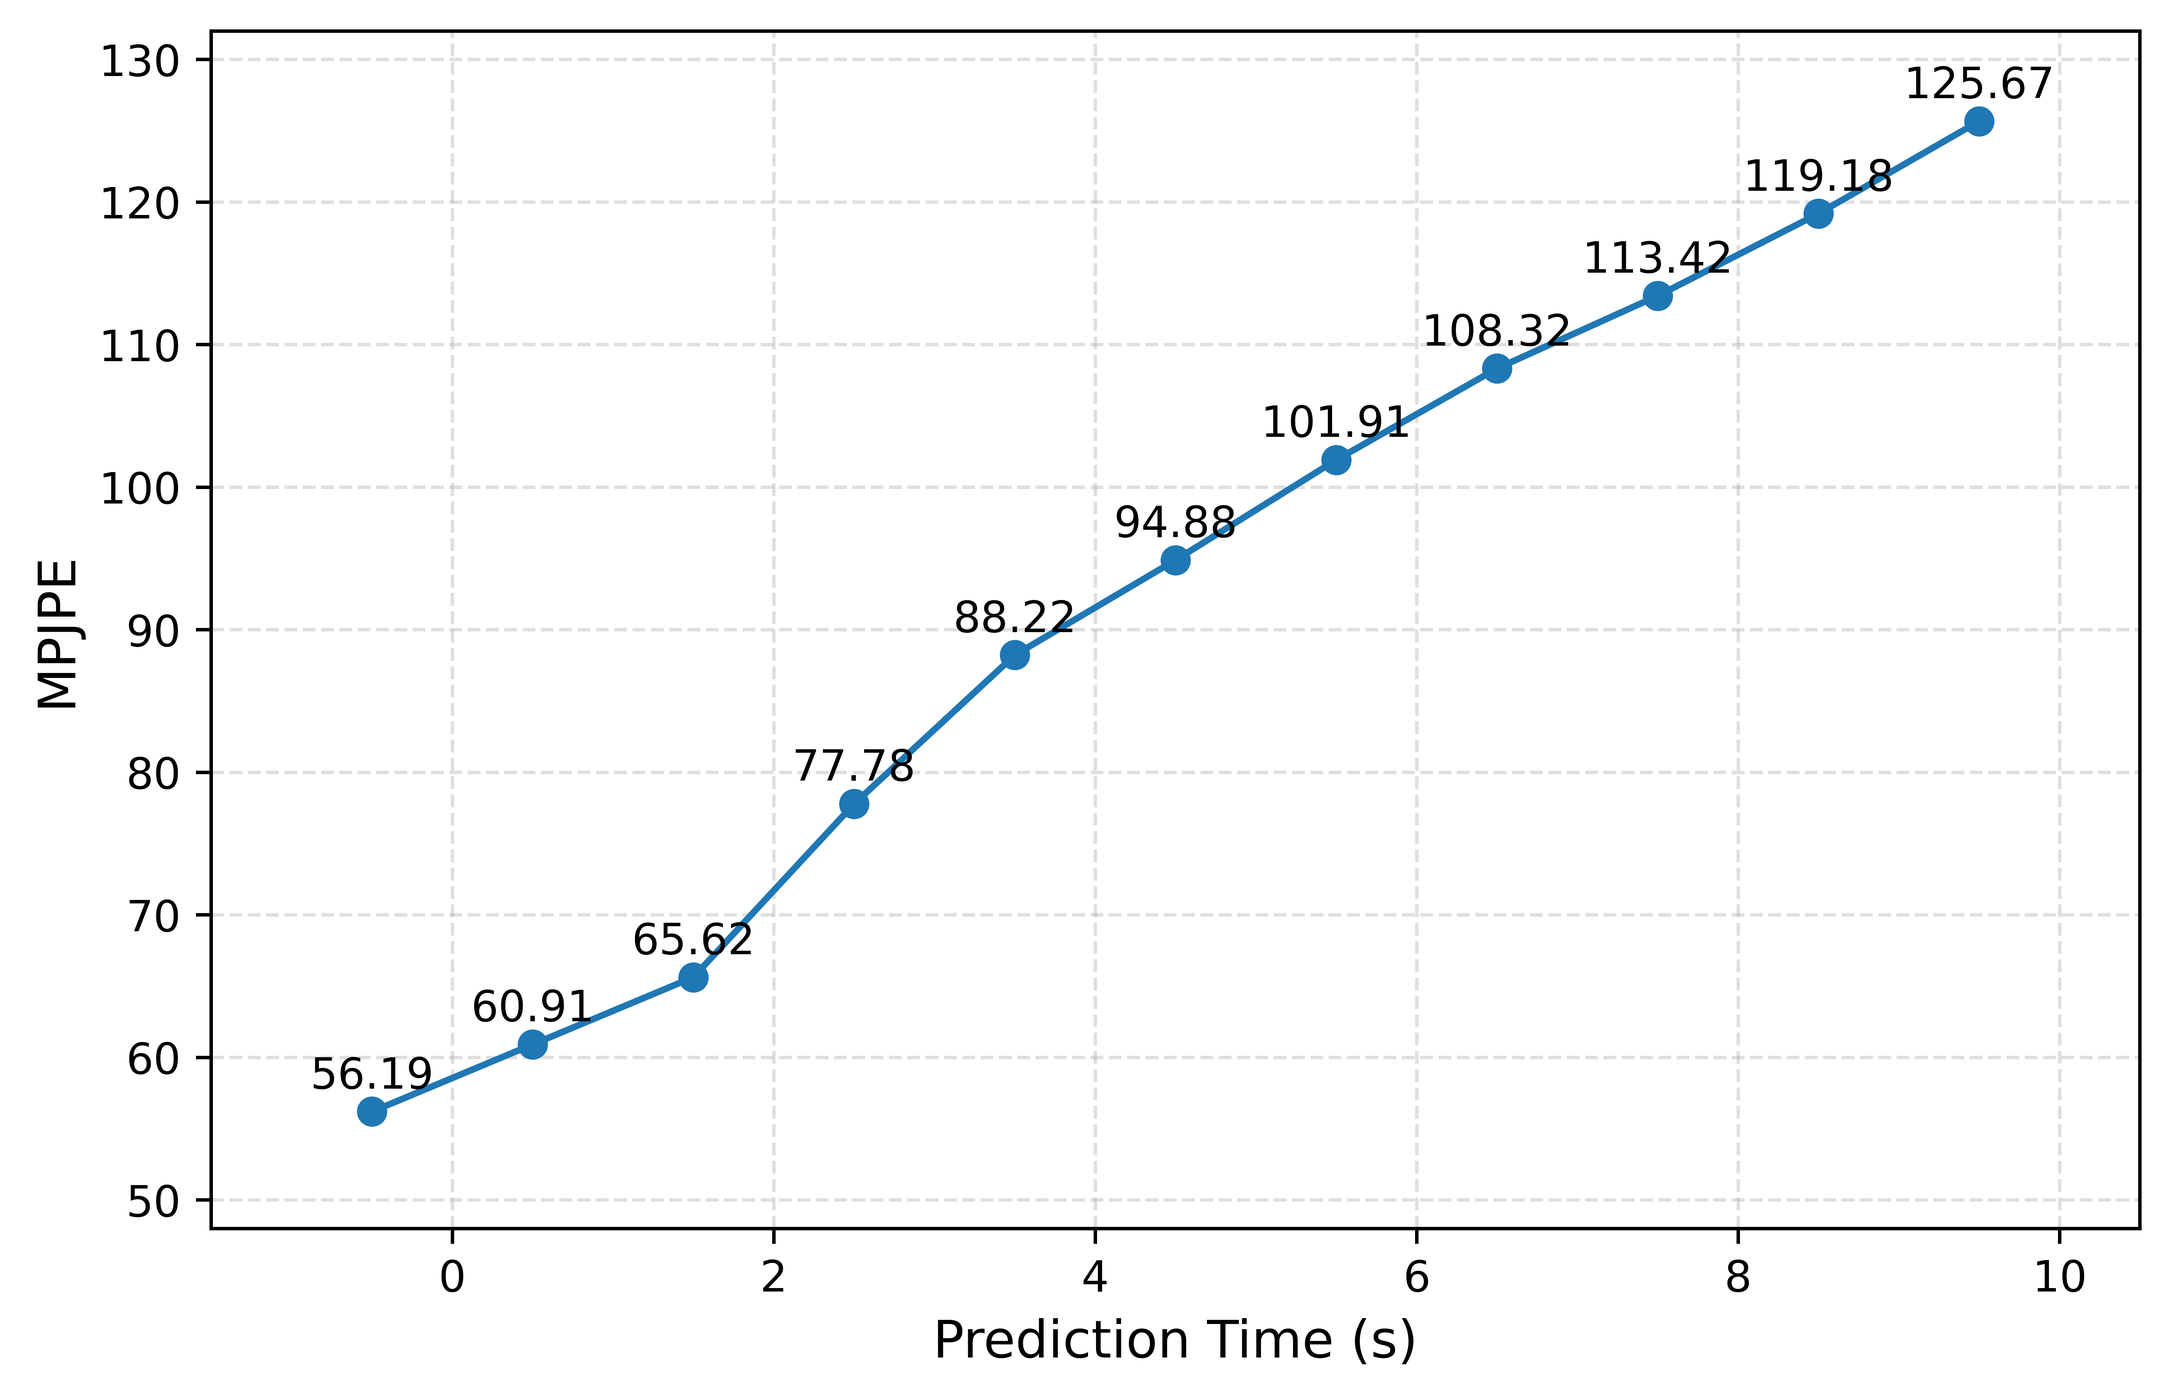
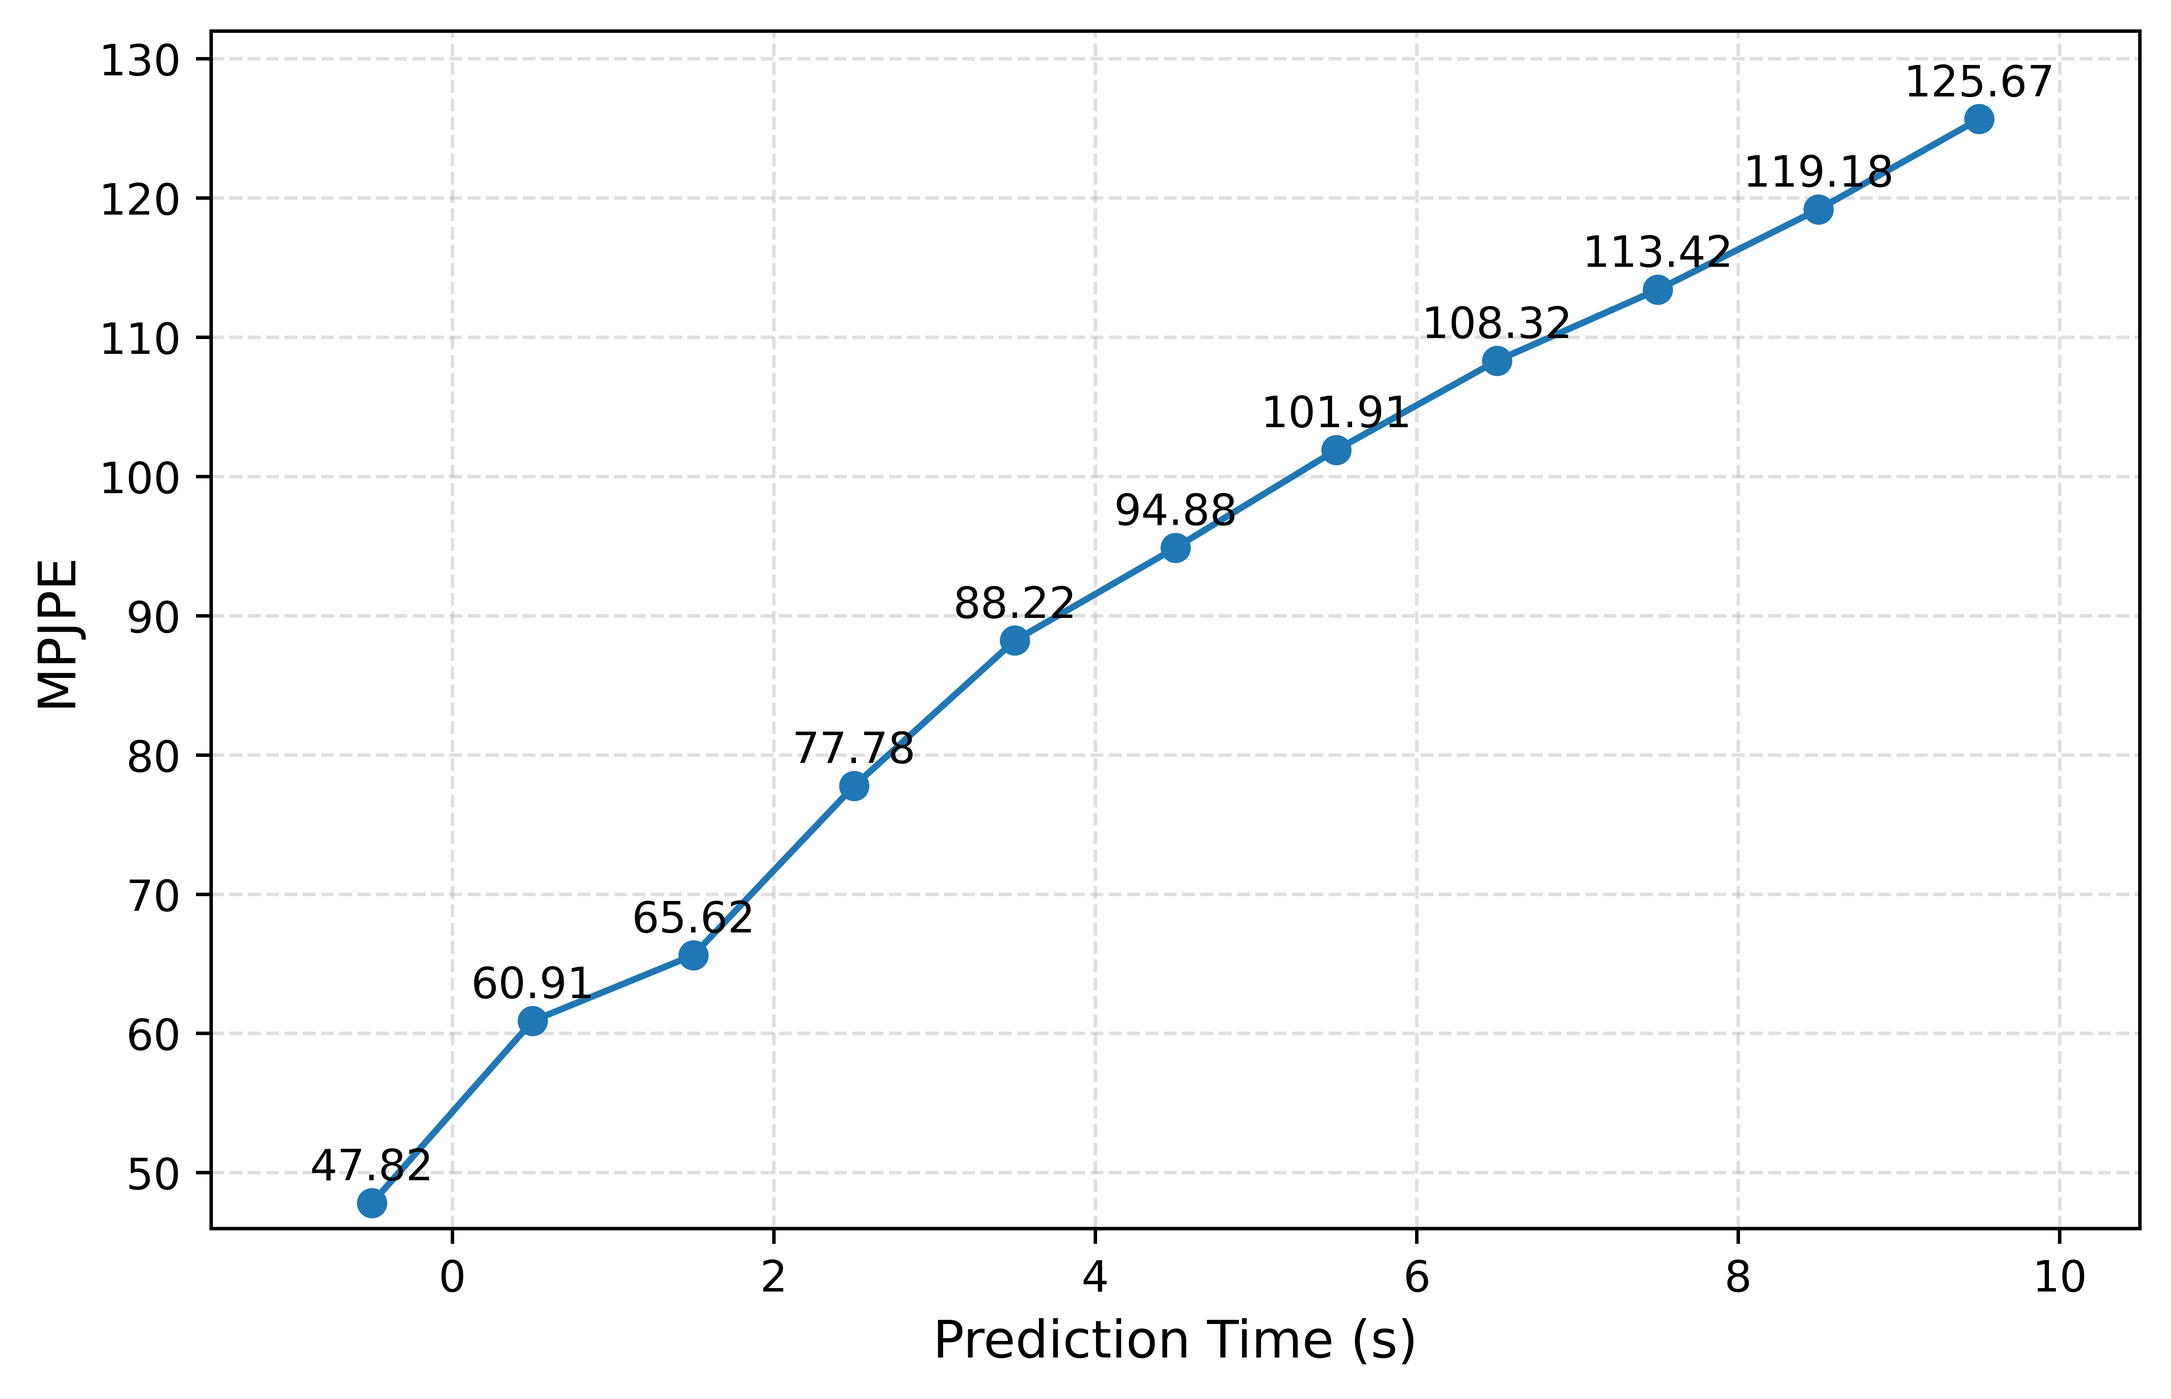
修复一些问题

diff --git a/Main_Spine/c3.tex b/Main_Spine/c3.tex
@@ -6,7 +6,7 @@
 
 \xsection{问题描述}{Problem Description}
 
-人体活动识别（Human Activity Recognition, HAR）是智能感知中的基础任务，在智慧医疗、养老监护、安防监控和智能家居等场景中具有重要应用价值。近年来，随着可穿戴传感器、无线感知传感器以及深度学习方法的发展，HAR在识别精度和应用范围上均取得了明显进展。然而，在真实室内环境中构建兼具准确性、鲁棒性和可部署性的人体活动识别系统，仍然面临若干挑战。
+人体活动识别（Human Activity Recognition, HAR）是智能感知中的基础任务，在智慧医疗、养老监护、安防监控和智能家居等场景中具有重要应用价值。近年来，随着可穿戴传感器、无线感知技术以及深度学习方法的发展，HAR在识别精度和应用范围上均取得了明显进展。然而，在真实室内环境中构建兼具准确性、鲁棒性和可部署性的人体活动识别系统，仍然面临若干挑战。
 
 首先，视觉感知方法在光照充足且遮挡较少的条件下通常能够取得较好的识别效果，但其性能高度依赖成像质量与视角条件。在夜间、弱光或存在遮挡的环境中，人体外观特征和关键点信息容易退化，从而影响识别稳定性。同时，持续视频采集还会带来较为突出的隐私问题，因此在卧室、书房等敏感场景中受到一定限制。相比之下，非视觉感知方式在隐私保护和环境适应性方面更具优势，因而逐渐成为人体活动识别研究的重要方向。
 
@@ -124,7 +124,7 @@ F_I, F_W \in \mathbb{R}^{B \times T \times D},
 
 \subsubsection{跨模态特征对齐}{}
 
-如第2.3节所述，对比学习能够在共享语义空间中实现跨模态特征对齐。基于该思想，本文在WIHAR模型中引入CLIP式对比学习约束，以减小IMU与WiFi CSI特征之间的分布偏差。不同于第二章从输入层构建跨模态对应关系的做法，本文在特征层进行对齐：首先利用Mamba编码器分别提取IMU与WiFi CSI的时序特征表示，然后在样本级别构建跨模态对比关系。设编码后的时序特征为
+如第2.3节所述，对比学习能够在共享语义空间中实现跨模态特征对齐。基于该思想，本文在WIHAR模型中引入CLIP式对比学习约束，以减小IMU与WiFi CSI特征之间的分布偏差。与第二章对跨模态对齐原理的通用描述不同，本文在特征层进行对齐：首先利用Mamba编码器分别提取IMU与WiFi CSI的时序特征表示，然后在样本级别构建跨模态对比关系。设编码后的时序特征为
 \begin{equation}
 F_I, F_W \in \mathbb{R}^{B \times T \times D},
 \end{equation}
@@ -177,7 +177,7 @@ Q = F_I W_Q, \qquad
 K = F_W W_K, \qquad
 V = F_W W_V,
 \end{equation}
-其中，$W_Q \in \mathbb{R}^{D \times d_k}$、$W_K \in \mathbb{R}^{D \times d_k}$和$W_V \in \mathbb{R}^{D \times d_v}$为可学习的线性映射矩阵。
+其中，$W_Q \in \mathbb{R}^{D \times d_k}$、$W_K \in \mathbb{R}^{D \times d_k}$、$W_V \in \mathbb{R}^{D \times D}$为可学习的线性映射矩阵。
 
 随后通过缩放点积注意力计算跨模态特征交互：
 \begin{equation}
@@ -558,17 +558,17 @@ L_a = - \sum_{c=1}^{C_a} w_c \, y_a^{(c)} \log \hat{y}_a^{(c)},
 
 在多模态人体活动识别任务中，IMU数据与WiFi CSI数据在量纲范围和统计分布上存在差异，因此数据标准化可能影响模型训练过程。为分析标准化策略对模型识别性能的作用，本文选取两种设置进行对比：一是不对输入数据进行标准化处理；二是同时对IMU数据和WiFi CSI数据进行按通道Z-score标准化。实验结果如表~\ref{tab:norm_ablation}所示。
 
-设输入样本表示为 $X \in \mathbb{R}^{B \times C \times T}$，其中 $B$ 表示批大小，$C$ 表示通道数，$T$ 表示时间长度。按通道Z-score标准化的计算方式为
+设输入样本表示为$X \in \mathbb{R}^{B \times T \times C}$，其中$B$表示批大小，$T$表示时间长度，$C$表示通道数。按通道Z-score标准化的计算方式为
 \begin{equation}
-\mu_c=\frac{1}{BT}\sum_{b=1}^{B}\sum_{t=1}^{T}X_{b,c,t},
+\mu_c=\frac{1}{BT}\sum_{b=1}^{B}\sum_{t=1}^{T}X_{b,t,c},
 \end{equation}
 \begin{equation}
-\sigma_c=\sqrt{\frac{1}{BT}\sum_{b=1}^{B}\sum_{t=1}^{T}(X_{b,c,t}-\mu_c)^2},
+\sigma_c=\sqrt{\frac{1}{BT}\sum_{b=1}^{B}\sum_{t=1}^{T}(X_{b,t,c}-\mu_c)^2},
 \end{equation}
 \begin{equation}
-\hat{X}_{b,c,t}=\frac{X_{b,c,t}-\mu_c}{\sigma_c},
+\hat{X}_{b,t,c}=\frac{X_{b,t,c}-\mu_c}{\sigma_c},
 \end{equation}
-其中 $\mu_c$ 和 $\sigma_c$ 分别表示第 $c$ 个通道的均值与标准差，$\hat{X}_{b,c,t}$ 表示标准化后的数据。
+其中$\mu_c$和$\sigma_c$分别表示第$c$个通道的均值与标准差，$\hat{X}_{b,t,c}$表示标准化后的数据。
 
 % \begin{table}[h]
 %   \centering

diff --git a/Main_Spine/c2.tex b/Main_Spine/c2.tex
@@ -8,7 +8,7 @@
 
 \xsubsection{惯性测量单元}{Inertial Measurement Unit}
 
-IMU是人体运动感知中最常用的可穿戴传感器之一，通常由三轴加速度计和三轴陀螺仪构成，用于测量载体在三维空间中的线性加速度与角速度信息。相较于视觉传感器，IMU主要刻画人体局部运动状态，对遮挡及环境光照变化具有较强的鲁棒性。然而，其感知能力受限于传感器的佩戴位置，同时在跨受试者泛化、佩戴偏差以及长期积分漂移等方面仍面临一定挑战。目前，IMU已广泛应用于人体活动识别、步态分析、运动评估以及人体姿态重建等任务中\cite{sepahvand2025state,contoli2024energy,alarfaj2024wearable}。
+IMU是人体运动感知中最常用的可穿戴传感器之一，通常由三轴加速度计和三轴陀螺仪构成，用于测量载体在三维空间中的线性加速度与角速度信息。相较于视觉传感器，IMU主要刻画人体局部运动状态，对遮挡及环境光照变化具有较强的鲁棒性。然而，其感知能力受限于传感器的佩戴位置，同时在跨受试者泛化、佩戴偏差以及长期积分漂移等方面仍面临一定挑战。目前，IMU已广泛应用于人体活动识别、步态分析、运动评估以及人体姿态重构等任务中\cite{sepahvand2025state,contoli2024energy,alarfaj2024wearable}。
 
 在加速度测量方面，加速度计输出的是载体坐标系下的比力，即线性加速度与重力加速度共同作用的结果。设时刻 $t$ 的加速度计观测值为 $a_t$，其测量模型可表示为：
 \begin{equation}
@@ -18,9 +18,9 @@ a_t = C_n^b (a_n - g_n) + b_a + n_a
 
 陀螺仪用于测量载体的角速度信息，其观测模型可表示为：
 \begin{equation}
-\omega_t = \omega_{true} + b_g + n_g
+\omega_t = \omega_t^{\mathrm{true}} + b_g + n_g
 \end{equation}
-其中，$\omega_{true}$ 为真实角速度，$b_g$ 为陀螺仪零偏误差，$n_g$ 为测量噪声。角速度信号能够刻画人体肢体在运动过程中的旋转动态变化，与加速度信息相结合，可以更全面地表征人体运动的时序特征。
+其中，$\omega_t^{\mathrm{true}}$ 为时刻 $t$ 的真实角速度，$b_g$ 为陀螺仪零偏误差，$n_g$ 为测量噪声。角速度信号能够刻画人体肢体在运动过程中的旋转动态变化，与加速度信息相结合，可以更全面地表征人体运动的时序特征。
 
 \xsubsection{WiFi信道状态信息}{WiFi Channel State Information}
 
@@ -206,7 +206,7 @@ V_W
 
 \xsection{自回归建模机制}{Autoregressive Modeling Mechanism}
 
-在时序数据建模任务中，数据在时间维度上通常具有显著的依赖关系，即当前时刻的状态往往由历史状态所决定。人体运动序列同样具有这一连续性特征，例如在行走、转身或摆臂等动作中，人体关节的运动轨迹在相邻时间步之间通常呈现出较强的相关性。因此，在人体运动建模过程时，可以充分利用历史状态对未来状态进行推断。
+在时序数据建模任务中，数据在时间维度上通常具有显著的依赖关系，即当前时刻的状态往往由历史状态所决定。人体运动序列同样具有这一连续性特征，例如在行走、转身或摆臂等动作中，人体关节的运动轨迹在相邻时间步之间通常呈现出较强的相关性。因此，在人体运动建模过程中，可以充分利用历史状态对未来状态进行推断。
 
 自回归建模机制是一种经典的时序建模方法，其核心思想是利用历史观测序列对当前或未来状态进行预测。在实际应用中，若直接使用完整历史序列作为输入，将带来较高的计算开销，并且随着序列长度增加，模型的推理效率会显著下降。为此，通常引入长度为 $L$ 的固定滑动窗口，仅利用最近的历史信息进行建模，在保证时序依赖建模能力的同时有效控制计算复杂度，即：
 \begin{equation}

diff --git a/Main_Spine/c1.tex b/Main_Spine/c1.tex
@@ -4,7 +4,7 @@
 
 \xsection{选题意义与应用背景}{Research Significance and Application Background}
 
-人体行为感知是智能计算与人机交互领域的重要研究方向，其目标是通过传感设备获取人体运动信息，并对人体行为状态进行识别与理解。在智慧康养、智能家居、人机交互以及虚拟现实等应用场景中，系统需要实时获取人体活动信息或人体姿态状态，以支持行为监测、健康评估和交互控制等功能。因此，如何实现稳定、可靠的人体行为感知，已成为当前智能感知领域的重要研究问题。
+人体行为感知是智能计算与人机交互领域的重要研究方向，其目标是通过传感设备获取人体运动信息，并对人体行为状态进行识别与理解。在智慧康养、智能家居、人机交互以及虚拟现实等应用场景中，系统需要实时获取人体活动信息或人体姿态信息，以支持行为监测、健康评估和交互控制等功能。因此，如何实现稳定、可靠的人体行为感知，已成为当前智能感知领域的重要研究问题。
 
 传统的人体行为感知研究多依赖视觉传感器，如RGB摄像机或深度相机等。视觉方法在姿态重构和活动识别任务中取得了显著进展，但其应用仍受到隐私保护、光照条件以及环境遮挡等因素的限制。例如，在家庭、医疗或公共场所等场景中，持续使用摄像设备可能引发隐私问题；在弱光或复杂遮挡环境下，视觉方法的感知性能也可能明显下降。因此，近年来越来越多研究开始探索利用非视觉传感器实现人体行为感知。
 
@@ -52,7 +52,7 @@
 
 \xsection{论文的主要研究内容}{Main Research Content}
 
-针对现有非视觉人体感知方法在多模态特征融合、跨受试者泛化以及人体运动预测等方面存在的不足，本文围绕人体活动识别与人体姿态重构两个任务开展研究。
+针对现有非视觉人体感知方法在多模态特征融合、跨受试者泛化以及未来姿态预测等方面存在的不足，本文围绕人体活动识别与人体姿态重构两个任务开展研究。
 
 在人体活动识别任务中，本文重点研究IMU与WiFi CSI之间的多模态融合问题。由于两类传感数据在信号形式和物理特性上存在明显差异，直接进行特征融合往往难以获得理想的识别效果。为此，本文提出一种多模态人体活动识别方法WIHAR。该方法通过跨模态对比学习策略，将IMU的运动动力学特征与WiFi CSI的射频感知特征映射到统一的语义空间，从而实现异构模态之间的特征对齐。在此基础上，引入交叉注意力机制对两种模态特征进行深度交互，以提升多模态信息融合能力。此外，针对人体活动识别任务中普遍存在的跨受试者性能下降问题，本文进一步设计了一种基于类别原型的少样本适配策略，通过利用源域训练阶段学习得到的类别原型，引导目标受试者特征向共享语义空间对齐，从而缓解不同个体之间的特征分布差异，提高模型在跨受试者场景下的泛化能力。
 

diff --git a/Main_Spine/c5.tex b/Main_Spine/c5.tex
@@ -8,7 +8,7 @@
 
 首先，在人体活动识别任务中，本文提出了多模态融合方法WIHAR。该方法分别对IMU与WiFi CSI时序数据进行特征建模，通过跨模态对比学习缩小两种模态之间的语义差异，并利用交叉注意力机制实现模态间的信息交互与融合。在此基础上，结合基于类别原型的少样本适配策略，对跨受试者场景下的分布偏移问题进行了缓解。实验结果表明，WIHAR在XRFV2数据集上的活动识别准确率达到96.06\%。在跨受试者实验中，模型在未适配时的平均识别准确率为72.57\%，在引入少量目标受试者样本进行适配后可提升至90.99\%。这些结果说明，IMU与WiFi CSI在人体活动感知中具有较强的互补性，合理的跨模态对齐与融合策略能够有效提升复杂室内环境下的人体活动识别性能。
 
-其次，在人体姿态重构与预测任务中，本文提出了基于自回归建模机制的方法AIPose。该方法仅使用IMU数据作为输入，通过IMU特征提取、当前姿态重构和未来IMU预测等模块构建统一建模框架，在恢复当前人体姿态的同时，对未来短时姿态变化进行预测。实验结果表明，在二维关键点坐标空间中，AIPose在XRFV2数据集上的当前姿态重构平均关节位置误差为47.82，未来姿态预测平均关节位置误差为54.11。相关结果表明，基于IMU的自回归建模不仅能够较准确地恢复当前人体姿态，也能够对未来短时运动变化进行有效刻画。
+其次，在人体姿态重构与预测任务中，本文提出了基于自回归建模机制的方法AIPose。该方法仅使用IMU数据作为输入，通过IMU特征提取、当前姿态重构和未来IMU预测等模块构建统一建模框架，在完成当前人体姿态重构的同时，对未来短时姿态变化进行预测。实验结果表明，在关键点坐标空间中，AIPose在XRFV2数据集上的当前姿态重构平均关节位置误差为47.82，未来姿态预测平均关节位置误差为54.11。相关结果表明，基于IMU的自回归建模不仅能够较准确地完成当前人体姿态重构，也能够对未来短时运动变化进行有效建模。
 
 总体来看，本文分别从多模态特征对齐与融合、跨受试者少样本适配以及人体运动时序建模三个方面，对基于非视觉传感器的人体行为感知问题进行了研究。研究结果表明，基于IMU与WiFi CSI的多模态方法能够较好支持室内环境下的人体活动识别，而基于IMU的自回归建模方法也为人体姿态重构与短时预测提供了可行思路。上述工作从活动语义理解与姿态动态建模两个层面，为非视觉人体感知研究提供了补充。
 
